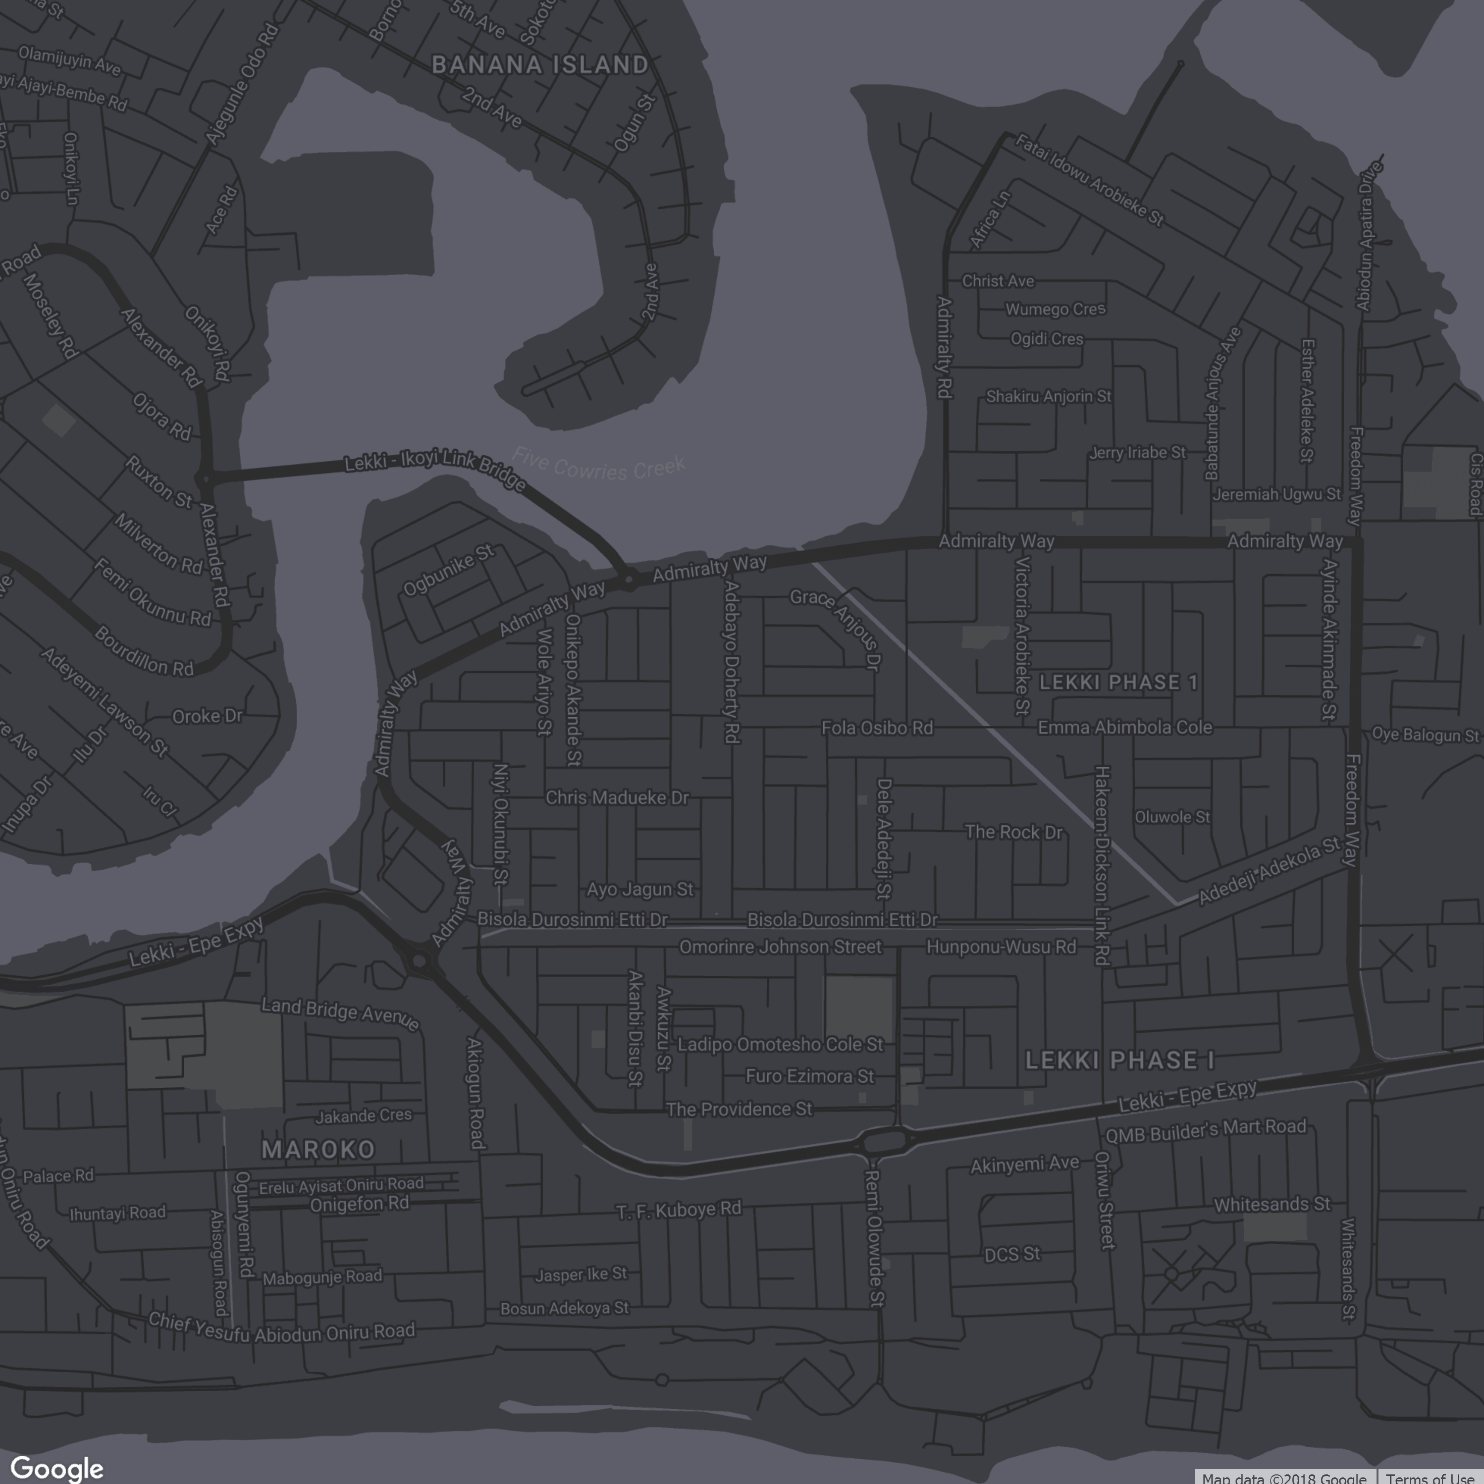
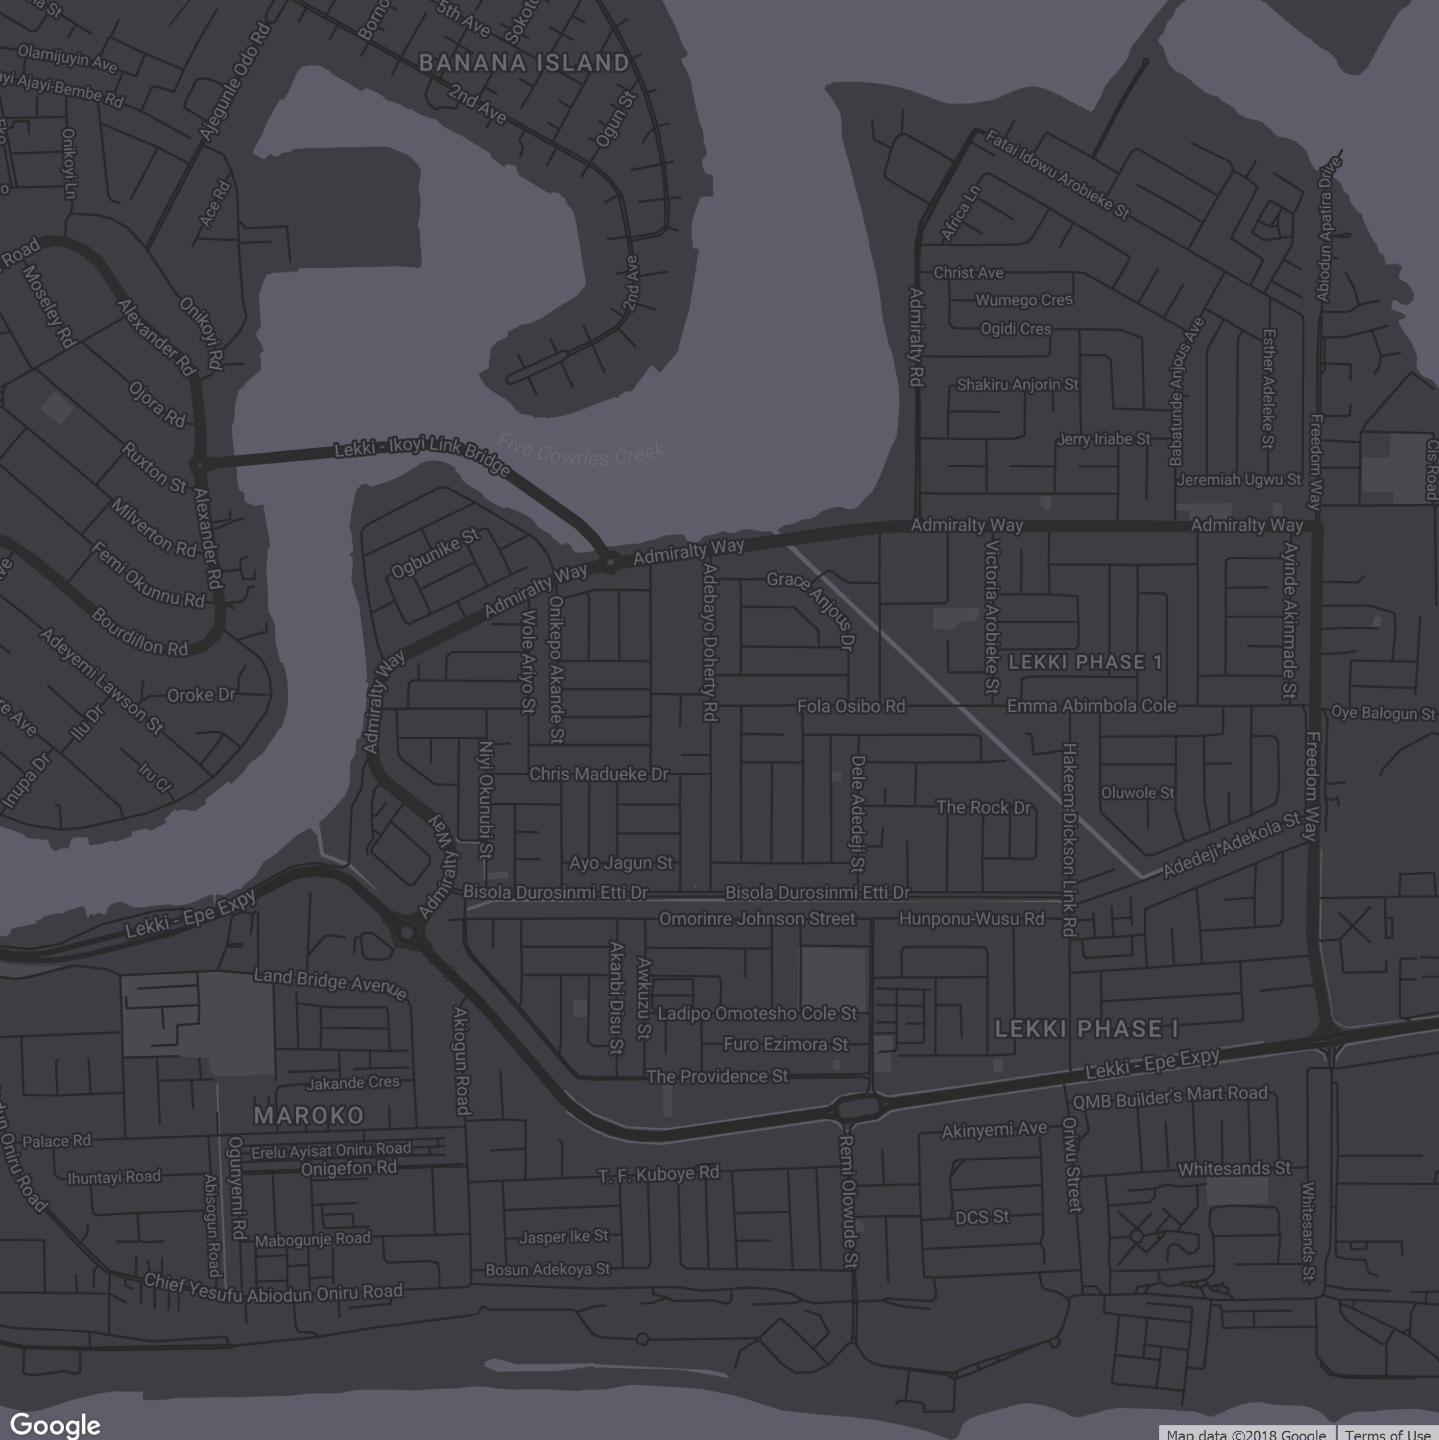
add: 完成maps元素的基本布局及样式

Changed region(s): [[0.8256, 0.9688, 0.9785, 1.0]]

diff --git a/scss/layouts/_home.scss b/scss/layouts/_home.scss
@@ -155,9 +155,30 @@ $z-index-base: 200;
     }
   }
 
+  .maps {
+    &::after {
+      position: absolute;
+      z-index: $z-index-base - 2;
+      top: 0;
+      bottom: 0;
+      left: 0;
+      right: 0;
+      content: '';
+      background: radial-gradient(circle, rgba(16, 16, 18, 0) 0%, rgba(16, 16, 18, .88) 100%);
+    }
+
+    .Lagos-Nigeria {
+      position: absolute;
+      top: 0;
+      left: 0;
+      width: 103.06%;
+      transform: translate(-22px, -369px);
+    }
+  }
+
   .globe {
     position: absolute;
-    z-index: $z-index-base - 2;
+    z-index: $z-index-base - 3;
     top: 0;
     left: 0;
     width: 1500.83%;
@@ -167,7 +188,7 @@ $z-index-base: 200;
 
   .map-grid {
     position: absolute;
-    z-index: $z-index-base - 3;
+    z-index: $z-index-base - 4;
     top: 0;
     left: 0;
     width: 1460px;

diff --git a/css/main.css b/css/main.css
@@ -154,9 +154,28 @@
   background-color: rgba(255, 255, 255, 0.02);
 }
 
-.home .globe {
+.home .maps::after {
   position: absolute;
   z-index: 198;
+  top: 0;
+  bottom: 0;
+  left: 0;
+  right: 0;
+  content: '';
+  background: radial-gradient(circle, rgba(16, 16, 18, 0) 0%, rgba(16, 16, 18, 0.88) 100%);
+}
+
+.home .maps .Lagos-Nigeria {
+  position: absolute;
+  top: 0;
+  left: 0;
+  width: 103.06%;
+  transform: translate(-22px, -369px);
+}
+
+.home .globe {
+  position: absolute;
+  z-index: 197;
   top: 0;
   left: 0;
   width: 1500.83%;
@@ -166,7 +185,7 @@
 
 .home .map-grid {
   position: absolute;
-  z-index: 197;
+  z-index: 196;
   top: 0;
   left: 0;
   width: 1460px;

diff --git a/index.html b/index.html
@@ -24,6 +24,9 @@
       <div class="pin-wave-normal"></div>
       <div class="pin-wave-large"></div>
     </div>
+    <div class="maps">
+      <img class="Lagos-Nigeria" src="./images/Lagos-Nigeria.png" alt="">
+    </div>
     <img class="globe" src="./images/Globe.svg">
     <div class="map-grid"></div>
   </div>
